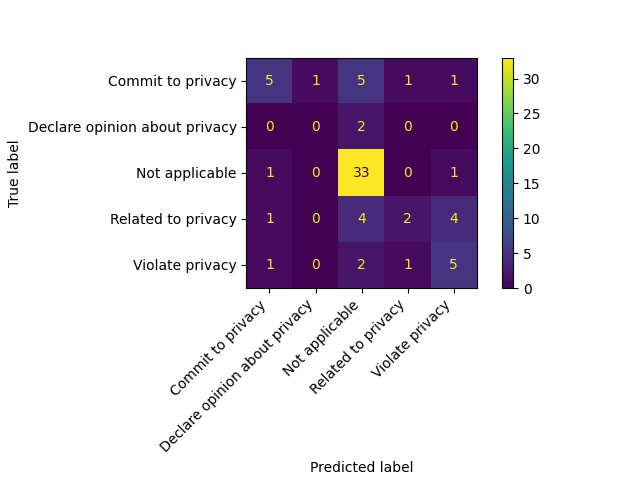
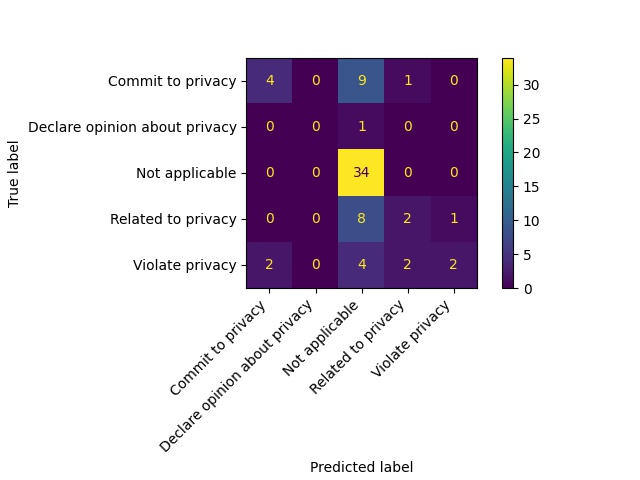
test set, better but weighted f1 score is still worst than regular expression

diff --git a/AIclassifier.py b/AIclassifier.py
@@ -292,8 +292,8 @@ for i,(token,value) in enumerate(zip(mixed_to_numbers, importances)):
 #    print('Feature:',feature[1],'Score:',feature[0])
 
 # Predicting
-predictions = model.predict(dev_matrix_array)
-#predictions = model.predict(test_matrix_array)
+#predictions = model.predict(dev_matrix_array)
+predictions = model.predict(test_matrix_array)
 
 # casually printing results
 #for sent, pred in zip(sents_train,predictions):
@@ -307,26 +307,25 @@ pred_list = [pred for pred in predictions]
 labels=[1,3,5,4,2]
 path='output/AI Classifier/1Label_confusion_matrix_NormTrue.jpg'
 display_labels=['Commit to privacy', 'Declare opinion about privacy','Not applicable','Related to privacy','Violate privacy']
-create_confusion_matrix(dev_list, pred_list, "true", path, labels, display_labels)
-#create_confusion_matrix(test_list, pred_list, "true", path, labels, display_labels)
+#create_confusion_matrix(dev_list, pred_list, "true", path, labels, display_labels)
+create_confusion_matrix(test_list, pred_list, "true", path, labels, display_labels)
 path='output/AI Classifier/1Label_confusion_matrix_NonNorm.jpg'
-create_confusion_matrix(dev_list, pred_list, None, path, labels, display_labels)
-#create_confusion_matrix(test_list, pred_list, None, path, labels, display_labels)
+#create_confusion_matrix(dev_list, pred_list, None, path, labels, display_labels)
+create_confusion_matrix(test_list, pred_list, None, path, labels, display_labels)
 
 # FLAG - CHECK IF CONFUSION MATRIX IS CORRECT FOR EVERY LABEL
 #path='output/AI Classifier/1labelSGDPredictionsStatsDev.txt'
 #path='output/AI Classifier/1labelRidgePredictionsStatsDev.txt'
-#path='output/AI Classifier/1labelPredictionsStatsBigram.txt'
-path='output/AI Classifier/1labelPredictionsStatsDev.txt'
-#path='output/AI Classifier/1labelPredictionsStatsTest.txt'
+#path='output/AI Classifier/1labelPredictionsStatsDev.txt'
+path='output/AI Classifier/1labelPredictionsStatsTest.txt'
 os.makedirs(os.path.dirname(path), exist_ok=True)
 with open(path, 'w') as file:
     #print("Performance measures - Unigram Dictionary \n", file=file)
-    print("Performance measures - Mixed Dictionary\n", file=file)
+    print("Performance measures - Mixed Dictionary - Adaboost\n", file=file)
     #print("Performance measures - Bigram Dictionary\n", file=file)
 #write_output_stats_file(path, "Mixed", test_labels_primary, predictions, labels)
-write_output_stats_file(path, "Dev", dev_labels_primary, predictions, labels)
-#write_output_stats_file(path, "Test", test_labels_primary, predictions, labels)
+#write_output_stats_file(path, "Dev", dev_labels_primary, predictions, labels)
+write_output_stats_file(path, "Test", test_labels_primary, predictions, labels)
 
 # TO DO: WRITE PREDICTIONS JSON FILE -> LEARN HOW TO TRANSFORM ADABOOST OUTPUT IN DICT ( LIST OF ({"text":sentence['text'], "label":label}))
 #write_predictions_file("Dev", dev_pred_dict)
